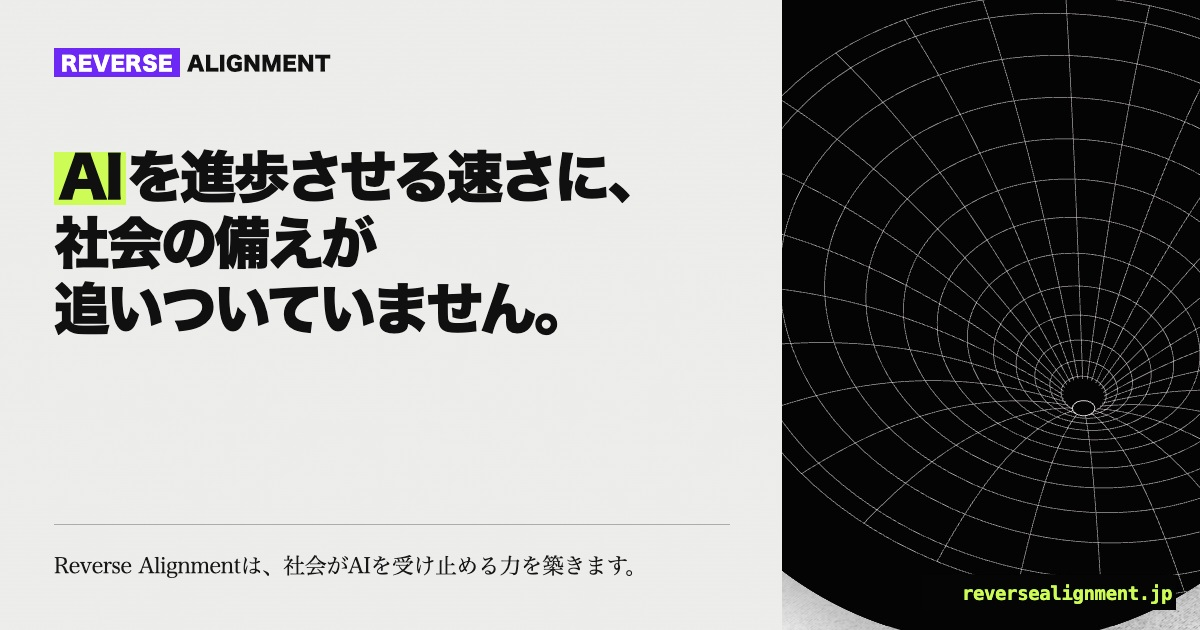
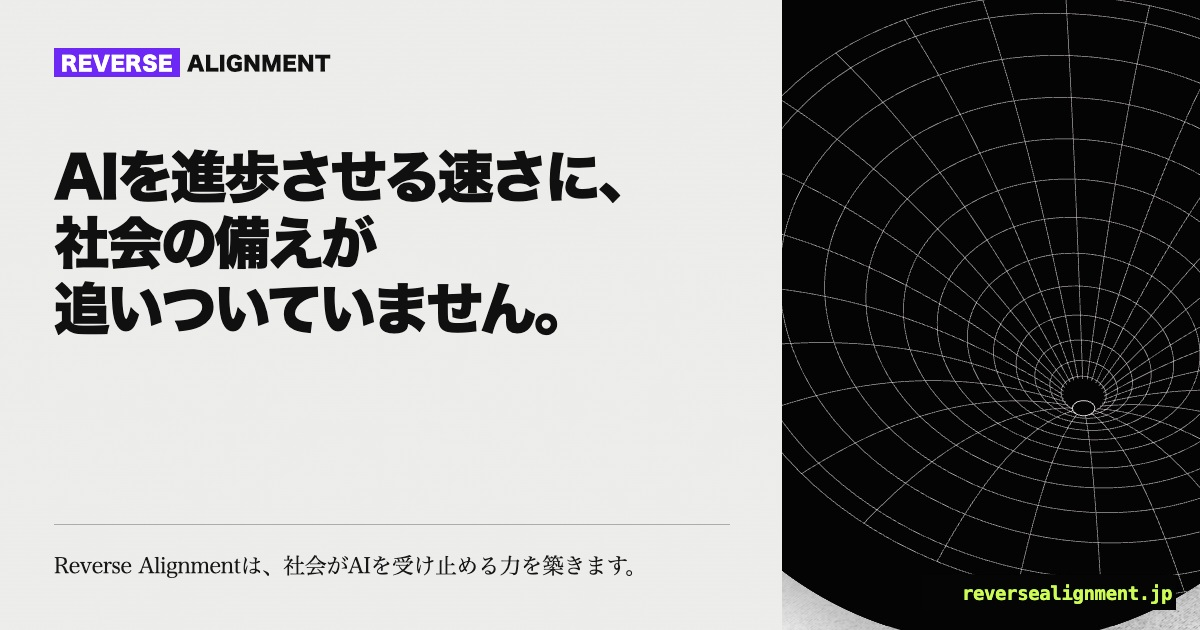
design: align Japanese social card type

Changed region(s): [[0.0308, 0.2111, 0.5242, 0.3317]]

diff --git a/tests/unit/content.test.ts b/tests/unit/content.test.ts
@@ -211,8 +211,8 @@ describe('catalog parity', () => {
     expect(en.assets['og-image']).toBe('/assets/images/og-image.jpg');
     expect(zh.meta.ogImage).toBe('/assets/images/og-image-zh-tw.jpg?1784789400');
     expect(zh.assets['og-image']).toBe('/assets/images/og-image-zh-tw.jpg?1784789400');
-    expect(ja.meta.ogImage).toBe('/assets/images/og-image-ja.jpg');
-    expect(ja.assets['og-image']).toBe('/assets/images/og-image-ja.jpg');
+    expect(ja.meta.ogImage).toBe('/assets/images/og-image-ja.jpg?1784790955');
+    expect(ja.assets['og-image']).toBe('/assets/images/og-image-ja.jpg?1784790955');
     expect(Object.keys(zh.assets).sort()).toEqual(Object.keys(en.assets).sort());
     expect(Object.keys(ja.assets).sort()).toEqual(Object.keys(en.assets).sort());
     for (const locale of listLocales()) {